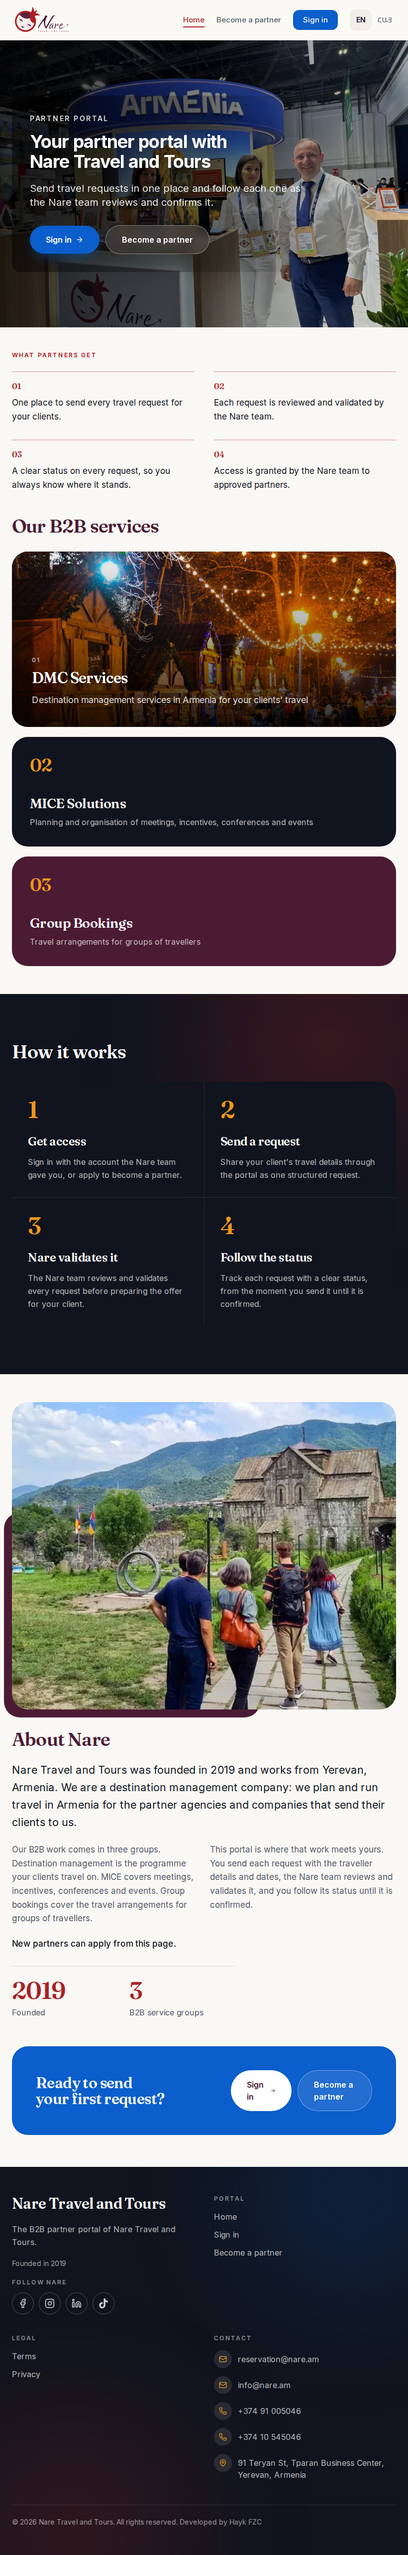
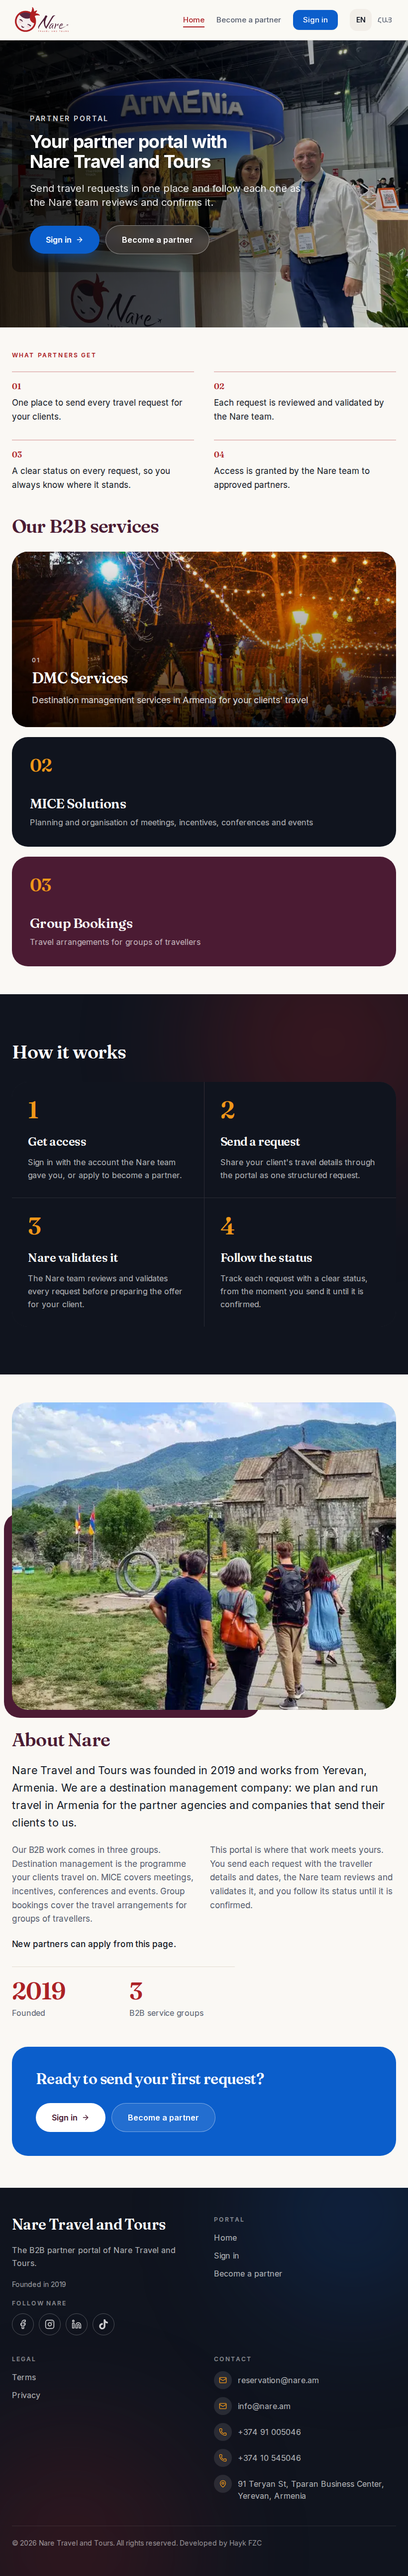
docs(evidence): staging-system landing report, before/after screenshots and audit (60/60)

Changed region(s): [[0.0, 0.0312, 1.0, 0.936], [0.8232, 0.0624, 1.0, 0.156], [0.5793, 0.9048, 0.7317, 0.9672]]

diff --git a/doc/b2b-cycle-1/PHASE-9-STAGING-SYSTEM.md b/doc/b2b-cycle-1/PHASE-9-STAGING-SYSTEM.md
@@ -1,0 +1,26 @@
+# Phase 9: landing rebuilt in staging.nare.am's actual system
+
+Branch `feat/portal-b2b-cycle-1`. Nothing merged, pushed or deployed to production. The loopback preview (port 3120) serves the commit named in the final report.
+
+## Source inspected directly
+`~/projects/Nare-Travel-and-Tours` (HEAD 41265db) and the live staging site (HTML, CSS, content API). Components read: `components/hero-slider/index.tsx` (full-bleed photo, dark gradient overlay, glass text panel, pill buttons), `components/page-banner.tsx`, `components/services-premium.tsx` (image-backed tiles, featured tile spanning two rows), `components/dmc-section.tsx` (charcoal section with glow, hairline-divided grid, blue CTA band), `components/footer.tsx`, `app/about/page.tsx`, and `app/globals.css` (`.eyebrow`, `.section-y`, `.pill-btn*`, `.reveal-up`).
+
+## Typography (what the user flagged)
+Staging uses **Inter** for body text and **Fraunces** (optical-size axis) for display type, with **Noto Sans Armenian / Noto Serif Armenian** for Armenian, section titles at `clamp(2.1rem, 4.6vw, 4rem)` semibold and 17-18px body copy. The portal had used a system serif fallback (Times on macOS) and smaller sizes. It now uses the same font files that staging itself serves, copied once into `public/fonts` (provenance in `public/fonts/SOURCES.md`, SIL OFL families) and declared with local `@font-face` rules, so nothing is fetched from a font service. The body, `.font-display` and Armenian-heading stacks mirror staging's.
+
+## Imagery (provenance recorded in `public/brand/photos/SOURCES.md`)
+Only two Nare photographs from staging are used: the exhibition stand hero (staging home slide 1) and the monastery visitors (staging's banner image on every page); plus the Yerevan market scene (staging slide 2) for the DMC tile and the login/application panels. The paramotor image (third-party "Armenian Explorer" watermark), wedding images (private individuals) and unrelated stock images were rejected. Photos were recompressed (186 / 78 / 111 / 68 KB).
+
+## Layout
+* **One brand lockup**: the script logo in the header only; no logo, mark or founded badge in the hero, no mock dashboard.
+* **Hero**: image-led, staging's overlay and text panel, two pill buttons (Sign in, Become a partner).
+* **Rhythm**: quiet benefits row (no boxes) -> image-backed services (large feature tile plus two compact tiles) -> charcoal "How it works" with hairline cells -> About Nare (asymmetric photo and about 120 words of story from approved wording and facts, 2019 and the count of service groups) -> blue CTA band (no contact details) -> rich dark footer (portal links, legal, contact and social from the admin settings).
+* **No repeated contact content**: email, phones, address and social links appear only in the footer.
+* **Login and partner application**: the same photo-led panel (market photo, dark overlay) and a slim footer.
+* No content is hidden behind scroll animations.
+
+## Verification
+See the final report in the conversation for exact counts: typecheck, full suite, production build, 60-check browser audit (axe, no horizontal scroll, three widths, public/advisor/admin/partner, Armenian at phone width with reduced motion), 40-check permission smoke, and the performance/keyboard script. Evidence: `evidence/redesign3/before` (previous preview), `evidence/redesign3/after`, `evidence/redesign2/staging` (reference).
+
+## Open items
+Licence/ownership of the three photographs for the production portal; native review of Armenian; pricing proof (release blocker).
